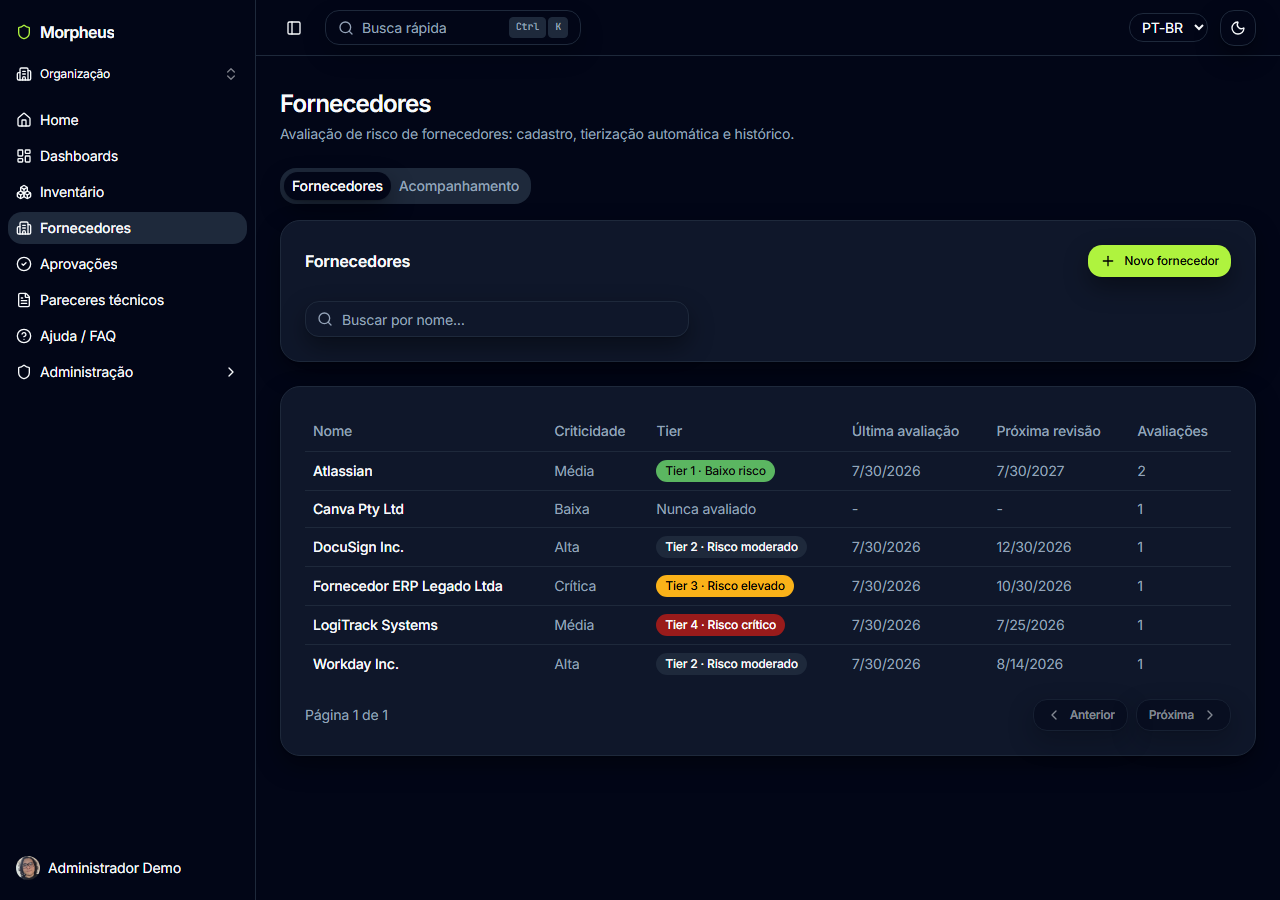
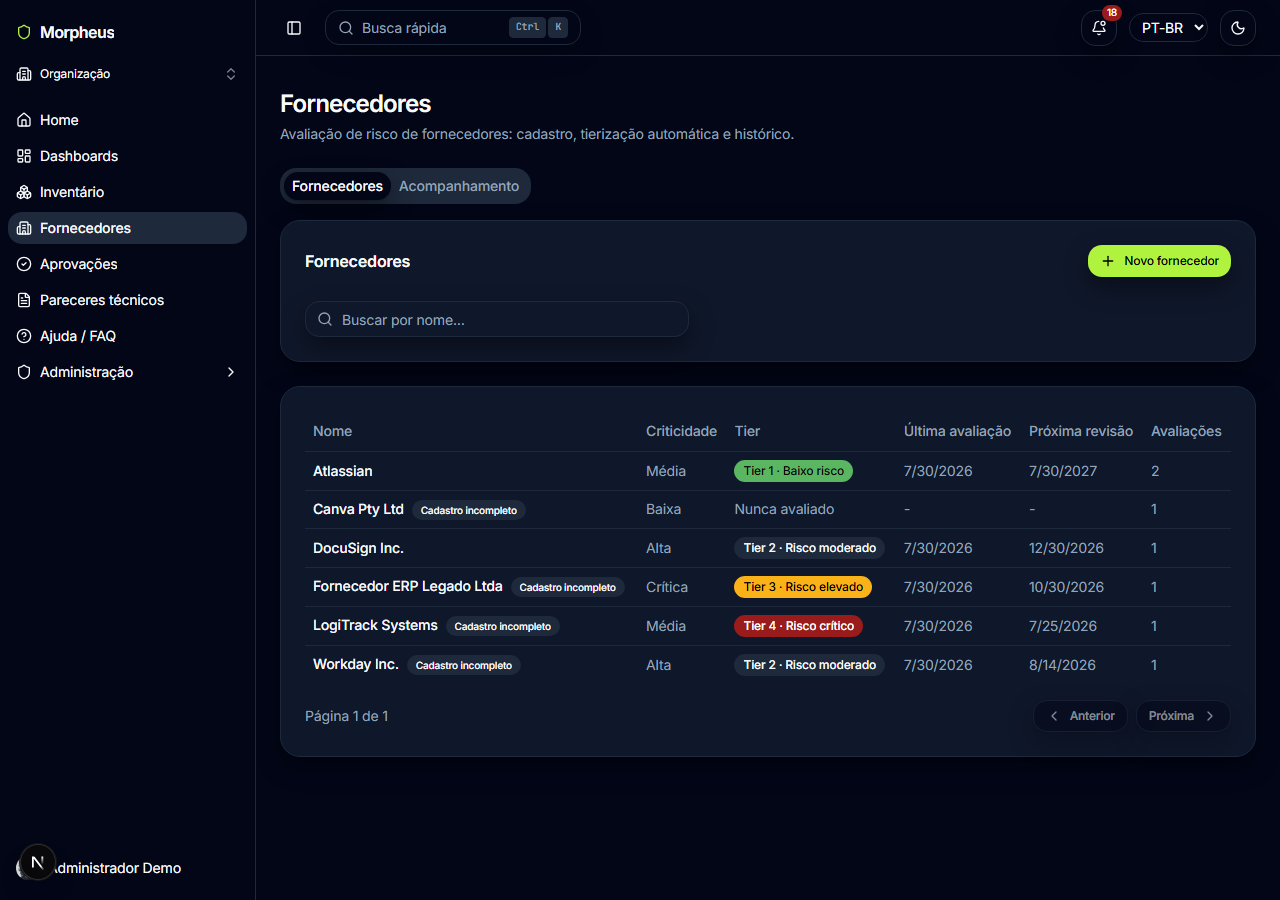
docs(portfolio): Fase 5 (completude cadastral) + Fase 4 (exclusão de fornecedores)
vendors-lista/vendors-detalhe regenerados (badge "Cadastro
incompleto" + botão "Excluir" novos, ambos os arcos mudaram as
mesmas telas). Screenshot novo: dialog de exclusão bloqueada,
mostrando vínculo real de inventário + ART simultaneamente. Limpeza
de fornecedores de teste órfãos de sessões anteriores (2 vias API,
8 via script direto no banco, autorizado) e completude de CNPJ de
2 fornecedores reais pra demonstrar o contraste completo/incompleto.

diff --git a/README.md b/README.md
@@ -74,6 +74,14 @@ qualquer item do inventário é possível ver a ART do fornecedor vinculado (ou 
 não existir), e a aba "Acompanhamento" em Fornecedores dá uma visão consolidada de quem nunca foi
 avaliado ou está com reavaliação vencida/próxima.
 
+O cadastro mínimo de um fornecedor (nome + criticidade) pode ser feito às pressas durante a criação
+de uma avaliação, mas um badge "Cadastro incompleto" sinaliza em `/vendors` sempre que faltar Razão
+Social ou CNPJ - e a decisão de aprovação de uma avaliação vinculada a esse fornecedor fica bloqueada
+até o cadastro ser completado, sem nunca travar o início da homologação em si. Um administrador pode
+excluir um fornecedor pela tela de detalhe, mas só quando ele for genuinamente órfão (sem nenhum
+software de inventário, avaliação ou ART vinculados) - se houver qualquer vínculo ativo, o sistema
+mostra exatamente quais são e oferece um atalho direto para os softwares vinculados.
+
 | ART do fornecedor no detalhe do item | Acompanhamento de fornecedores |
 | --- | --- |
 | ![ART do fornecedor](./docs/screenshots/inventory-item-art.png) | ![Acompanhamento de fornecedores](./docs/screenshots/vendors-acompanhamento.png) |
@@ -224,6 +232,10 @@ Processo completo (camadas de risco, histórico de cada janela) em
 | --- | --- |
 | ![Fornecedores - lista](./docs/screenshots/vendors-lista.png) | ![Fornecedores - detalhe](./docs/screenshots/vendors-detalhe.png) |
 
+| Exclusão de fornecedor - bloqueada por vínculo ativo |
+| --- |
+| ![Exclusão bloqueada](./docs/screenshots/vendors-exclusao-bloqueada.png) |
+
 | Avaliação de fornecedor - quem realizou | Auditoria - quem fez o quê |
 | --- | --- |
 | ![Avaliação - realizada por](./docs/screenshots/vendors-avaliacao-realizada-por.png) | ![Auditoria](./docs/screenshots/admin-auditoria.png) |
@@ -364,6 +376,14 @@ The vendor behind an already-homologated piece of software is traceable too: fro
 item's detail page you can see the linked vendor's ART (or start one, if it doesn't exist yet), and
 the "Tracking" tab under Vendors gives a consolidated view of who's never been assessed or has an
 overdue/upcoming reassessment.
+
+A vendor's minimum registration (name + criticality) can be rushed through while creating an
+assessment, but an "Incomplete registration" badge flags it in `/vendors` whenever the legal name or
+tax ID is missing - and the approval decision on any assessment linked to that vendor stays blocked
+until the registration is completed, without ever blocking the homologation itself from starting. An
+administrator can delete a vendor from its detail page, but only when it's genuinely orphaned (no
+linked inventory software, assessment, or ART) - if there's any active link, the system shows exactly
+what they are and offers a direct shortcut to the linked software.
 
 | Vendor ART on the item detail page | Vendor tracking |
 | --- | --- |
@@ -511,6 +531,10 @@ Full process (risk tiers, per-window history) in [`docs/security.md`](./docs/sec
 | Vendors - list with tiering | Vendors - detail |
 | --- | --- |
 | ![Vendors - list](./docs/screenshots/vendors-lista-en.png) | ![Vendors - detail](./docs/screenshots/vendors-detalhe-en.png) |
+
+| Vendor deletion - blocked by an active link |
+| --- |
+| ![Deletion blocked](./docs/screenshots/vendors-exclusao-bloqueada-en.png) |
 
 | Vendor assessment - who performed it | Audit log - who did what |
 | --- | --- |

diff --git a/docs/changelog/2026-08.md b/docs/changelog/2026-08.md
@@ -3061,3 +3061,37 @@ em dark mode).
     `entityId`/nome do fornecedor, nada sensível).
   - `pnpm --filter @morpheus/api lint/typecheck/test/build` verdes (nenhum código mudou nesta fase -
     achado é "confirmado seguro", não uma correção).
+
+- **Portfólio: Fase 5 do arco de completude cadastral de fornecedor + Fase 4 do arco de exclusão de
+  fornecedores, feitas juntas (branch `docs/portfolio-vendor-completeness-deletion`) - as duas telas
+  já curadas que ambas afetam (`vendors-lista`/`vendors-detalhe`) mudaram pelos dois arcos ao mesmo
+  tempo, não dava pra separar de forma limpa.**
+  - Antes de capturar: achado um acúmulo real de fornecedores de teste órfãos de sessões anteriores
+    de verificação (`PW ...`/`QA ...`/`teste`), incluindo 2 ainda `isActive:true` que apareceriam na
+    lista. Limpeza em 2 etapas: via API normal (`deletion-info`/`DELETE`/reject) pro que era possível,
+    e um script direto no banco (autorizado explicitamente pelo usuário) pro restante - não existe
+    hoje nenhum endpoint de exclusão pra item de inventário nem pra Assessment fora de `DRAFT`, então
+    8 fornecedores de teste nunca ficariam genuinamente órfãos só pela API. Motivou um novo item de
+    backlog (Trello: "Endpoints restritos para gestão de samples/demo data") pedido explicitamente
+    pelo usuário - não escopado ainda.
+  - Também achado: todos os 6 fornecedores reais do tenant demo estavam sem CNPJ, o que faria o badge
+    "Cadastro incompleto" aparecer em 100% das linhas - não demonstra o recurso (parece um problema de
+    dado, não uma feature). Completado o CNPJ de 2 fornecedores (Atlassian, DocuSign) via `PATCH
+    /vendors/:id` normal, mantendo os outros 4 incompletos de propósito - mesmo espírito de "amostra
+    real, nunca fabricada" já em uso no projeto (dado real, só mais bem distribuído entre os dois
+    estados que a feature precisa mostrar).
+  - Screenshots regenerados (PT-BR+EN): `vendors-lista` (badges "Cadastro incompleto" visíveis em 4 de
+    6 fornecedores), `vendors-detalhe` (DocuSign, agora completo, com o botão "Excluir" novo ao lado de
+    "Editar").
+  - Screenshot novo (PT-BR+EN): `vendors-exclusao-bloqueada` - fornecedor com vínculo real de
+    inventário **e** ART ao mesmo tempo ("Fornecedor ERP Legado Ltda" + item "Legacy ERP", dado real
+    do tenant demo, não fabricado), mostrando o breakdown por categoria e o link condicional "Ver
+    softwares vinculados".
+  - `docs/architecture.md`: conferido, sem mudança necessária - nenhum dos dois arcos alterou o modelo
+    `Vendor` (só métodos/rotas novos, nenhum campo novo).
+  - `README.md` (PT-BR+EN): nova linha na tabela de screenshots pro dialog de exclusão bloqueada; 1
+    parágrafo novo na seção "Avaliação de risco de fornecedores (metodologia)" cobrindo os dois
+    recursos (gate de completude + exclusão de órfão).
+  - Capturado via `apps/web/scripts/portfolio-capture.mjs` (login real, tema escuro forçado,
+    `assertPageContains` antes de cada captura, `checkForDuplicateScreenshots` no fim do lote - 56
+    screenshots conferidos, zero colisão de tamanho).
